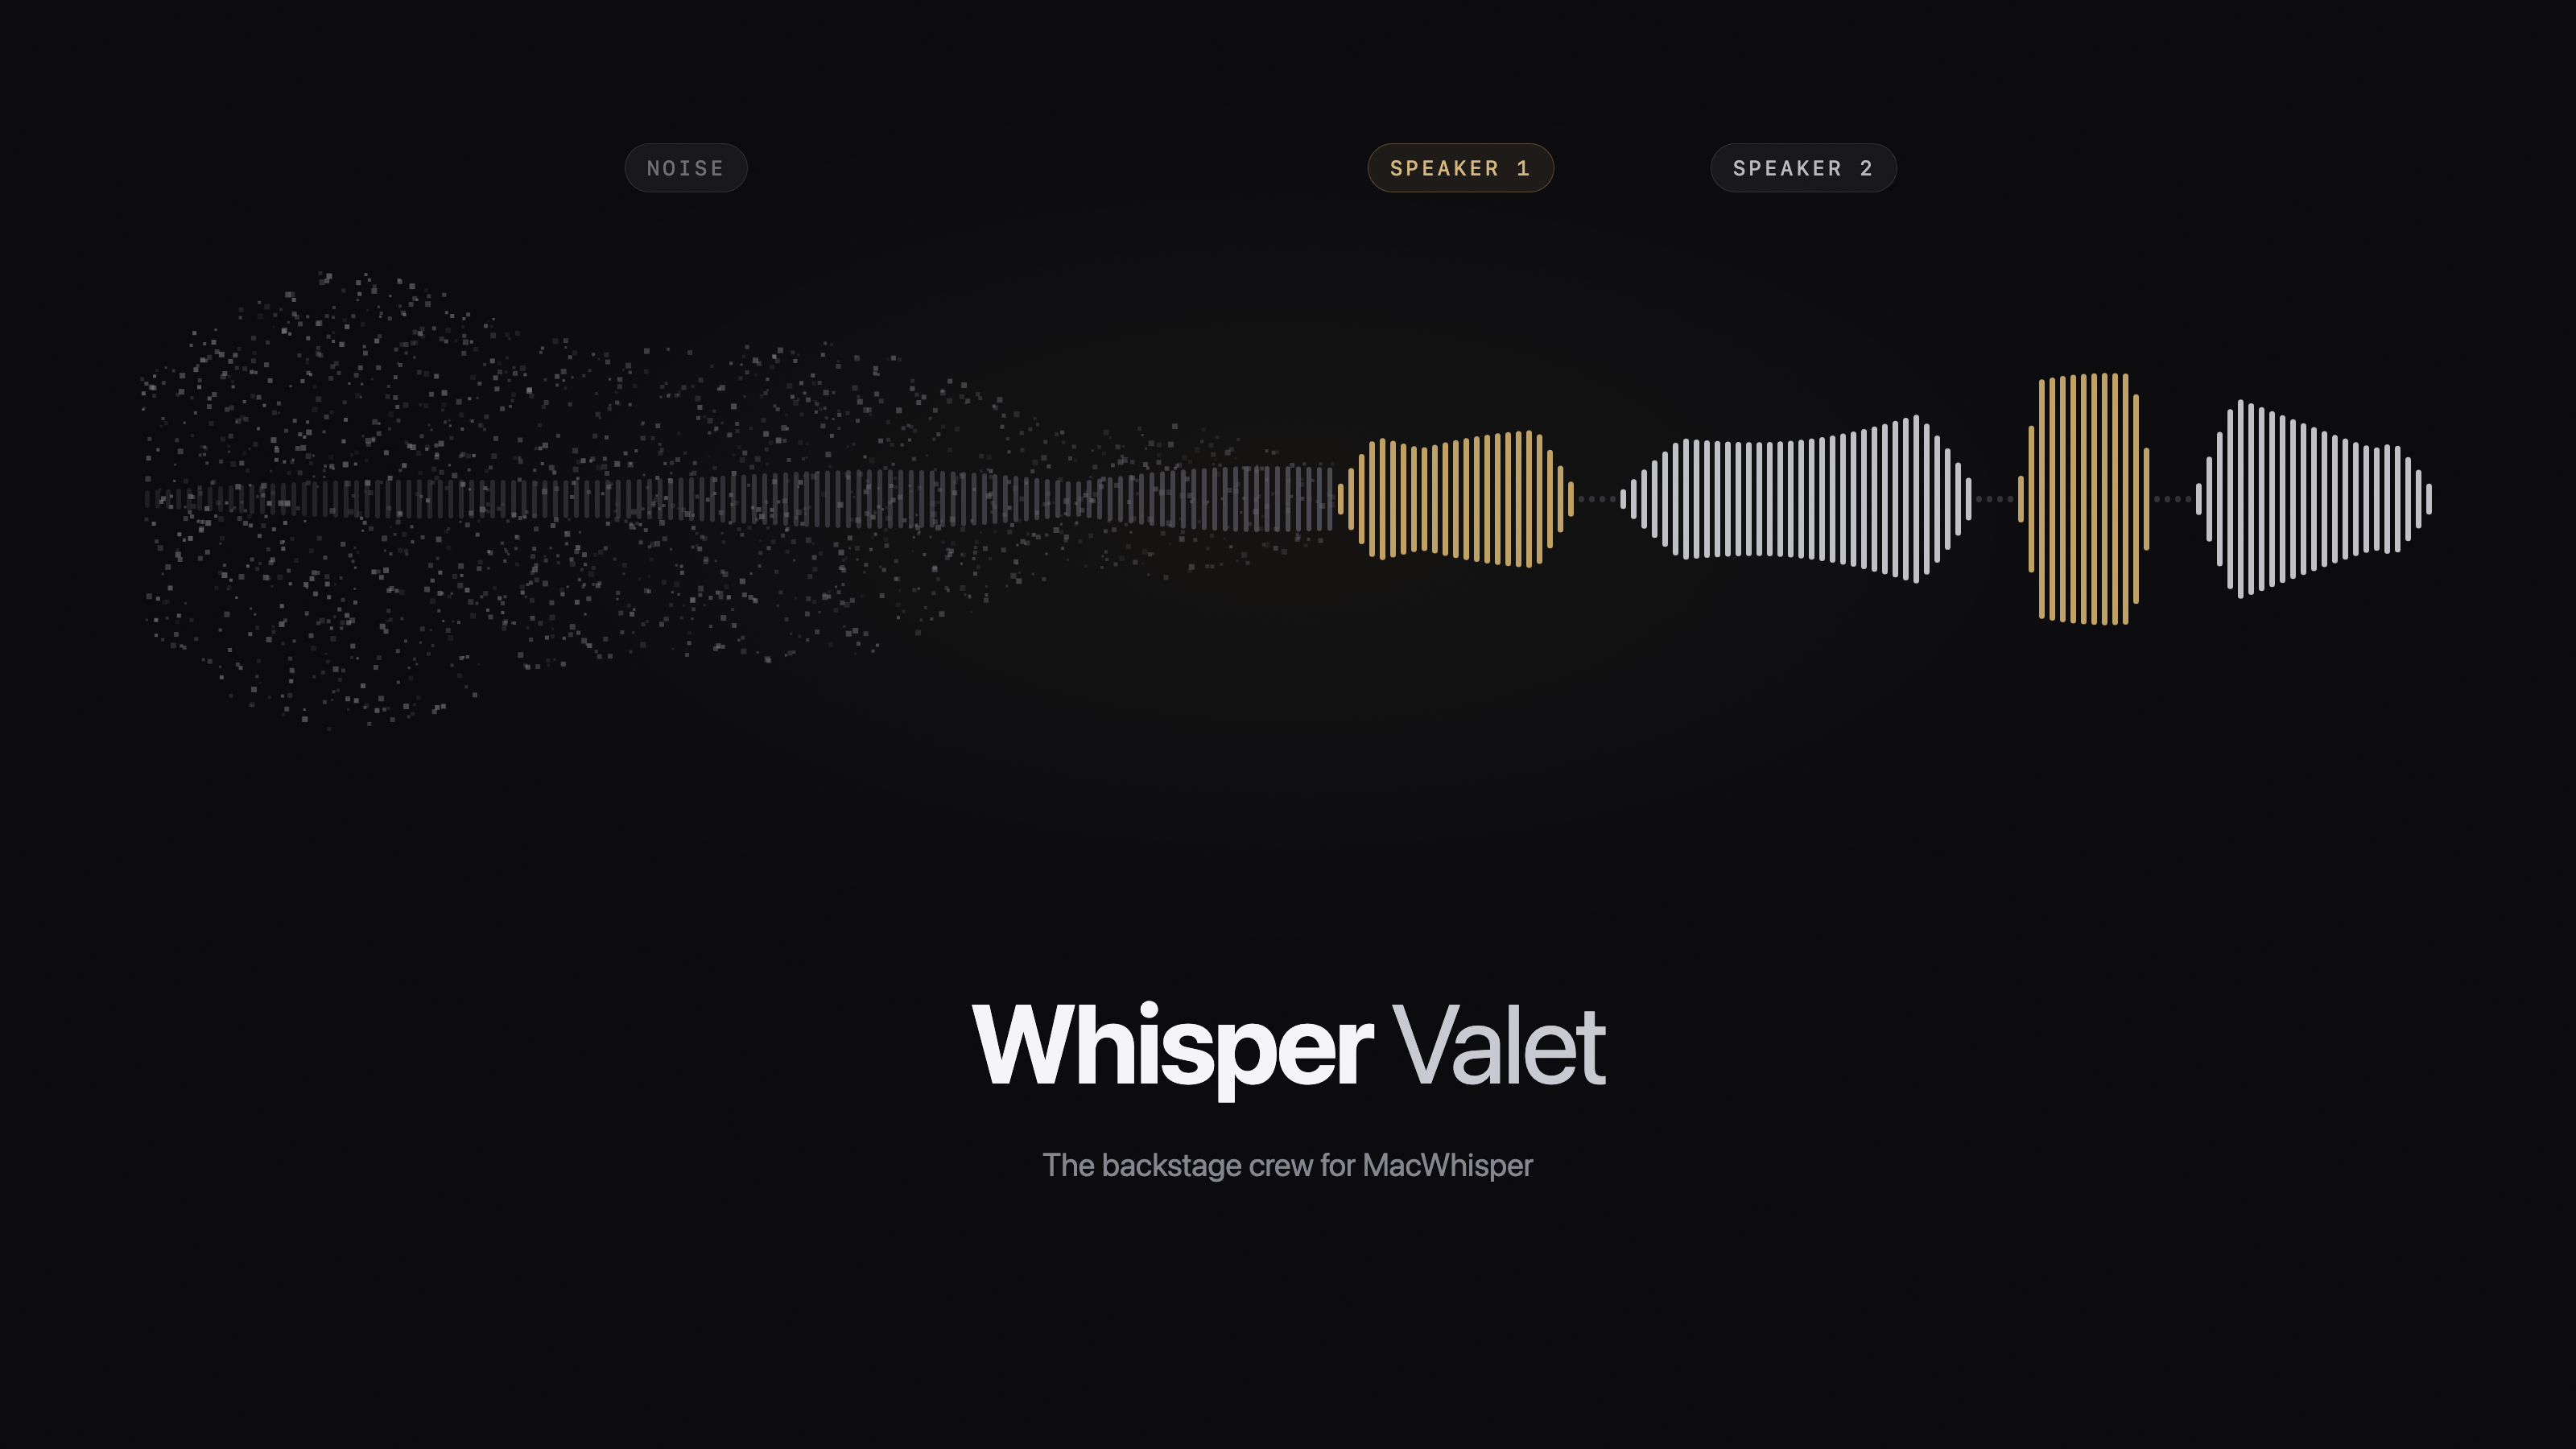
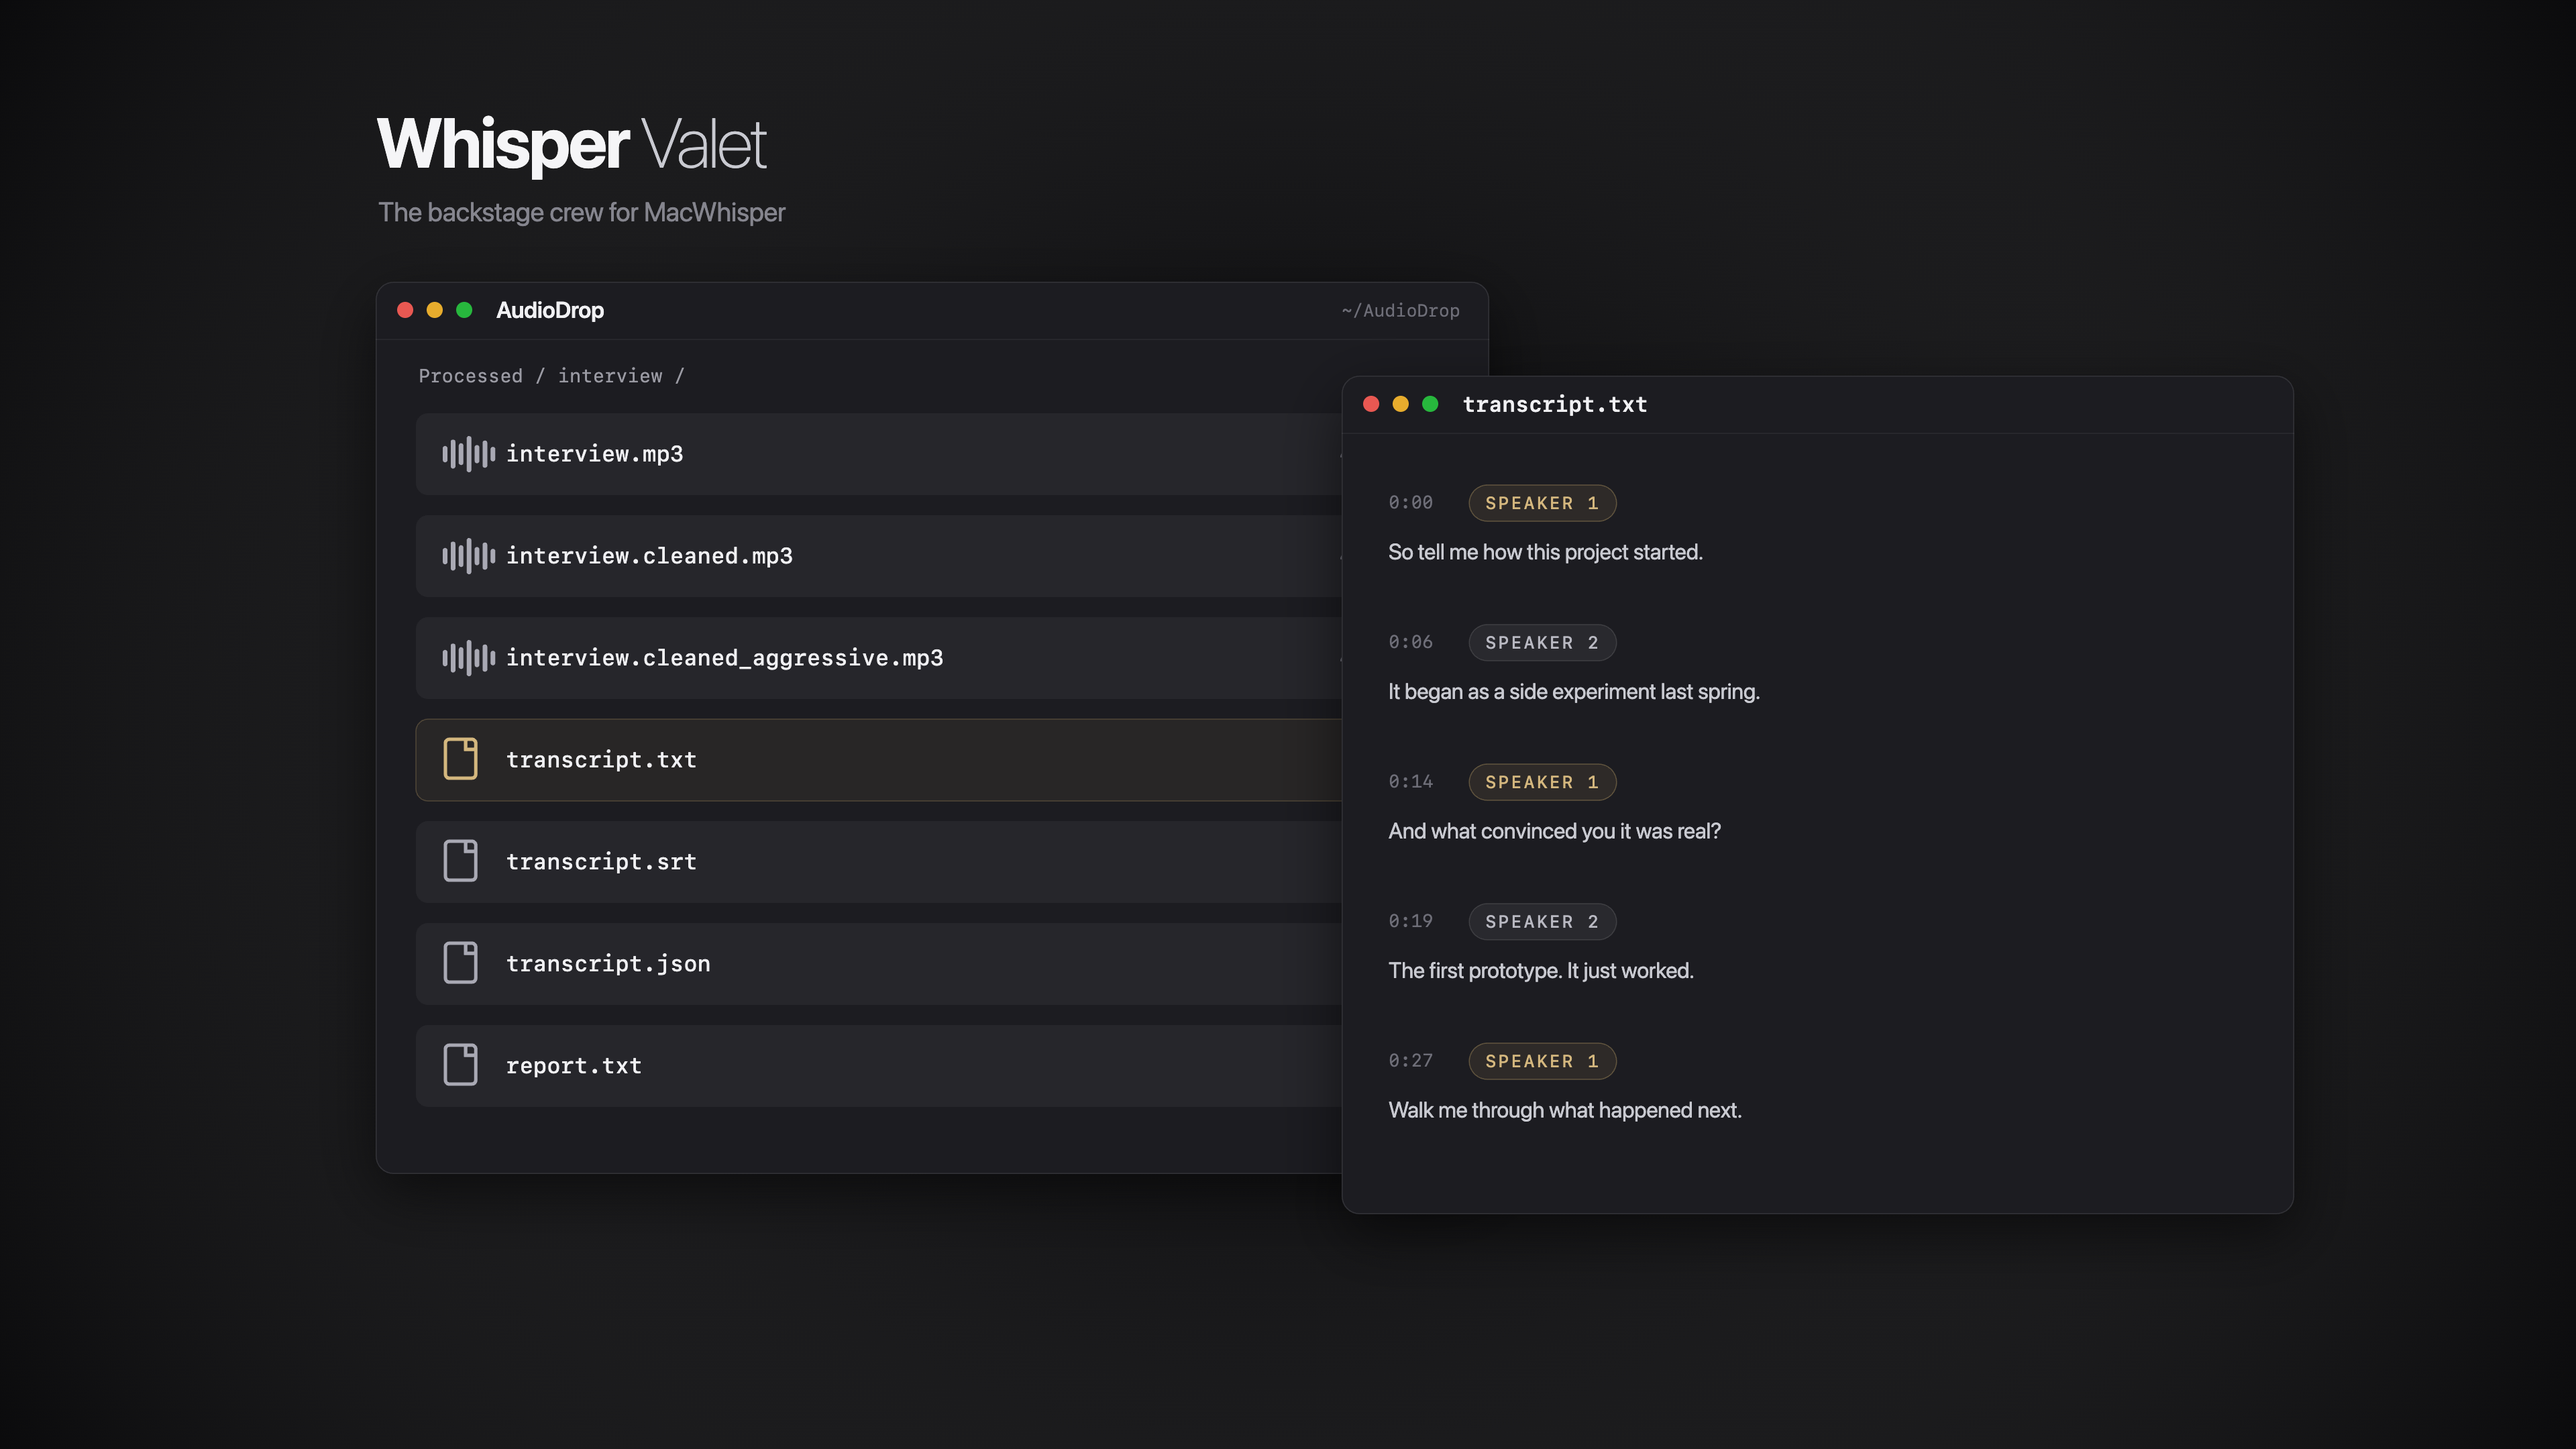
Replace launch card and social preview with product UI still

diff --git a/assets/launch-card-source.js b/assets/launch-card-source.js
@@ -1,0 +1,34 @@
+// Compose the launch still: UI demo scene at 16.2s + wordmark in the top band.
+const { chromium } = require('playwright-core');
+const fs = require('fs'); const path = require('path');
+const EXEC = '/Users/dragonaire/Library/Caches/ms-playwright/chromium-1228/chrome-mac-arm64/Google Chrome for Testing.app/Contents/MacOS/Google Chrome for Testing';
+(async () => {
+  const browser = await chromium.launch({ executablePath: EXEC, headless: true, args: ['--force-color-profile=srgb'] });
+  const page = await browser.newPage();
+  await page.goto('file://' + path.join(__dirname, 'valet_ui_demo.html'));
+  await page.waitForFunction('typeof window.captureFrame === "function"');
+  const dataUrl = await page.evaluate(() => {
+    renderFrame(972); // 16.2s: both windows, all transcript lines, footer note
+    const c = document.getElementById('c'), x = c.getContext('2d');
+    // wordmark in the empty top band, left-aligned with the main window
+    x.save();
+    x.textBaseline = 'alphabetic';
+    x.letterSpacing = '-2.8px';
+    x.font = '650 104px -apple-system, "SF Pro Display", "Helvetica Neue", sans-serif';
+    x.fillStyle = '#F5F5F7';
+    x.fillText('Whisper ', 560, 250);
+    const w1 = x.measureText('Whisper ').width;
+    x.font = '350 104px -apple-system, "SF Pro Display", "Helvetica Neue", sans-serif';
+    x.fillStyle = '#C9CAD1';
+    x.fillText('Valet', 560 + w1, 250);
+    x.letterSpacing = '0px';
+    x.font = '400 40px -apple-system, "SF Pro Display", "Helvetica Neue", sans-serif';
+    x.fillStyle = '#85858E';
+    x.fillText('The backstage crew for MacWhisper', 564, 330);
+    x.restore();
+    return c.toDataURL('image/png');
+  });
+  fs.writeFileSync(path.join(__dirname, 'ui_still.png'), Buffer.from(dataUrl.slice(22), 'base64'));
+  console.log('still written');
+  await browser.close();
+})();

diff --git a/README.md b/README.md
@@ -1,6 +1,6 @@
 # Whisper Valet
 
-![Whisper Valet: noise resolving into speaker-labeled speech](assets/launch-card.png)
+![Whisper Valet: results folder and speaker-labeled transcript](assets/launch-card.png)
 
 **The backstage crew for [MacWhisper](https://goodsnooze.gumroad.com/l/macwhisper).**
 Hand the valet a rough recording — noisy room, one speaker mumbling into their